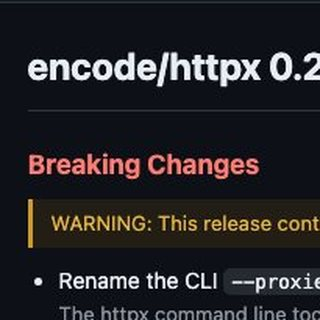
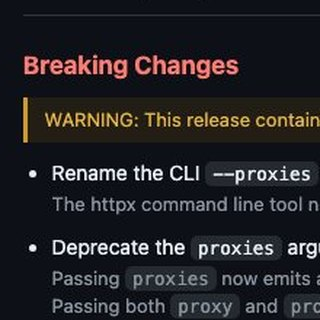
Fresh review: project sentence first, recording notes as footnotes, Waypoint bug story, sticky list, centred pastimes, clearer tiles and R6 poster

diff --git a/lib/content.ts b/lib/content.ts
@@ -117,8 +117,10 @@ export type Work = {
   what: string[];
   stack: string[];
   repo: string;
-  /** how the clip was made, shown under the video */
+  /** what the clip shows, one line under the video */
   recording: string;
+  /** how the recording was made, when that needs saying; a footnote after the bullets */
+  note?: string;
   hasVideo: boolean;
   /** width / height of the recording, when it isn't 16:10 */
   aspect?: number;
@@ -153,7 +155,8 @@ export const works: Work[] = [
     ],
     stack: ["C#", ".NET 10", "Roslyn", "ASP.NET Core", "React", "React Flow"],
     repo: "https://github.com/KR0N11/archlens",
-    recording: "Live run · dotnet/eShop analysed from a fresh clone (clip starts as the analysis finishes), then the call flow for POST api/orders/draft with the file and line behind each arrow",
+    recording: "Live run · dotnet/eShop from a fresh clone, then the call flow for POST api/orders/draft with the file and line behind each arrow",
+    note: "The clip starts as the analysis finishes.",
     hasVideo: true,
   },
   {
@@ -163,11 +166,12 @@ export const works: Work[] = [
     what: [
       "Draws Montréal's roads, water, parks and about 14k building footprints on a canvas from raw OpenStreetMap data, with its own Web Mercator projection. No maps, tile or routing API.",
       "Click two points: a quadtree snaps each click to the nearest road, and A* finds the path over about 58k intersections, with walk, bike and drive times.",
-      "A visualizer runs Dijkstra and A* side by side with live node counts. Across 300 test routes, A* explored about 80% fewer nodes at the median.",
+      "A visualizer runs Dijkstra and A* side by side. Across 300 test routes A* explored about 80% fewer nodes at the median, and that benchmark caught a real bug: rounding edges to 0.1 m let the heuristic overestimate, so 2 routes came back 0.1 m too long. Edges are now clamped and a smoke test guards it.",
     ],
     stack: ["TypeScript", "React", "Canvas 2D", "Vite", "OpenStreetMap"],
     repo: "https://github.com/KR0N11/waypoint",
-    recording: "Live run · a 1.06 km route with walk, bike and drive times; A* against Dijkstra (race speed raised on screen); a 10-minute walk isochrone",
+    recording: "Live run · a 1.06 km route with walk, bike and drive times; A* racing Dijkstra; a 10-minute walk isochrone",
+    note: "The race speed is raised on screen with the visualizer's own slider.",
     hasVideo: true,
   },
   {
@@ -181,7 +185,8 @@ export const works: Work[] = [
     ],
     stack: ["Python", "LangGraph", "FastAPI", "HTMX", "LlamaIndex", "Terraform"],
     repo: "https://github.com/KR0N11/sentinel",
-    recording: "Live run · triage of incident inc-001 in offline replay mode, then a scroll back through the real output. `--yes` approves the change; the LLM is a deterministic stub, so the call and cost line is the stub's count",
+    recording: "Live run · triage of incident inc-001 in offline replay mode, then a scroll back through the output",
+    note: "`--yes` approves the change at the prompt. The LLM is a deterministic stub here, so the call and cost line is the stub's own count.",
     hasVideo: true,
   },
   {
@@ -209,7 +214,8 @@ export const works: Work[] = [
     ],
     stack: ["Python", "LangGraph", "Pydantic", "DuckDB", "Streamlit", "FastAPI"],
     repo: "https://github.com/KR0N11/loom",
-    recording: "Semantic retrieval through Loom's HybridSearch (from a short demo script), then a hand-written SQL query run directly in DuckDB; the earlier ingest shows when it scrolls back · no LLM step",
+    recording: "Semantic retrieval with Loom's HybridSearch, then a DuckDB query · no LLM step",
+    note: "Retrieval runs from a short demo script, and the SQL is written by hand and run directly in DuckDB. The ingest shows when the terminal scrolls back.",
     hasVideo: true,
   },
   {

diff --git a/app/works/page.tsx b/app/works/page.tsx
@@ -123,11 +123,12 @@ export default function Works() {
             </a>
           </div>
           <div className={s.kind}>{w.kind}</div>
+          <p className={s.lede}>{w.what[0]}</p>
 
           <div
             className={s.frame}
             data-bright={!!w.bright}
-            style={{ aspectRatio: w.aspect ?? 16 / 10, width: `min(100%, calc(60vh * ${w.aspect ?? 16 / 10}))` }}
+            style={{ aspectRatio: w.aspect ?? 16 / 10, width: `min(100%, calc(52vh * ${w.aspect ?? 16 / 10}))` }}
           >
             {w.hasVideo ? (
               <video
@@ -148,8 +149,7 @@ export default function Works() {
             )}
           </div>
           <div className={s.caption}>
-            {/* `backticks` in a caption mark a command-line flag or name. */}
-            {w.recording.split("`").map((part, n) => (n % 2 ? <code key={n}>{part}</code> : part))}
+            {w.recording}
           </div>
 
           <div className={s.info}>
@@ -158,10 +158,17 @@ export default function Works() {
               {w.stack.join(" · ")}
             </p>
             <ul className={s.what}>
-              {w.what.map((line) => (
+              {w.what.slice(1).map((line) => (
                 <li key={line}>{line}</li>
               ))}
             </ul>
+            {w.note && (
+              <p className={s.note}>
+                <span>About the recording</span>
+                {/* `backticks` mark a command-line flag. */}
+                {w.note.split("`").map((part, n) => (n % 2 ? <code key={n}>{part}</code> : part))}
+              </p>
+            )}
           </div>
         </section>
 

diff --git a/app/works/works.module.css b/app/works/works.module.css
@@ -81,6 +81,9 @@
 .names {
   grid-area: names;
   align-self: start;
+  /* The list stays in view while a long project scrolls; the slots above it scroll away. */
+  position: sticky;
+  top: 24px;
   list-style: none;
   margin: 22px 0 0;
   padding: 0;
@@ -156,6 +159,30 @@
 .frame[data-bright="true"] .media {
   filter: brightness(0.8) contrast(0.95);
 }
+/* The project in one sentence, between its name and its recording. */
+.lede {
+  margin: 14px 0 0;
+  max-width: 62ch;
+  font-size: 19px;
+  line-height: 1.55;
+  color: var(--bone);
+}
+.note {
+  margin: 18px 0 0;
+  max-width: 68ch;
+  font-size: 15px;
+  line-height: 1.55;
+  color: var(--muted);
+}
+.note span {
+  margin-right: 10px;
+  font-family: var(--caps);
+  font-size: 13px;
+  letter-spacing: 0.1em;
+  text-transform: uppercase;
+  color: var(--grace);
+}
+.note code,
 .caption code {
   font-family: ui-monospace, "SF Mono", Menlo, monospace;
   font-size: 0.86em;
@@ -223,6 +250,7 @@
 }
 .what li {
   position: relative;
+  max-width: 68ch;
   padding: 7px 0 7px 18px;
   font-size: 18px;
   line-height: 1.6;
@@ -307,6 +335,7 @@
     margin-top: 30px;
   }
   .names {
+    position: static;
     margin-top: 36px;
   }
 }

diff --git a/app/profile/profile.module.css b/app/profile/profile.module.css
@@ -234,8 +234,8 @@
 /* ---------- Pastimes: photo first, a short label beside it ---------- */
 .item {
   display: grid;
-  grid-template-columns: minmax(0, 7fr) minmax(0, 5fr);
-  align-items: end;
+  grid-template-columns: minmax(0, 6fr) minmax(0, 5fr);
+  align-items: center;
   gap: clamp(28px, 5vw, 64px);
   padding: 44px 0;
   border-bottom: 1px solid rgba(200, 190, 160, 0.12);
@@ -244,7 +244,7 @@
   border-bottom: 0;
 }
 .itemText {
-  padding-bottom: 4px;
+  padding: 4px 0;
 }
 .line {
   margin: 10px 0 0;
@@ -272,9 +272,10 @@
 .photos video {
   filter: saturate(0.85) contrast(1.05) brightness(0.9);
 }
-/* Every row the same: the photo fills the wide column, the caption sits at its foot. */
+/* Every row the same: photo on the left, its caption beside it, centred on the photo. */
 .photos[data-count="1"] .frame {
   width: 100%;
+  max-width: 460px;
 }
 .photos .frame[data-video="true"] {
   aspect-ratio: 16 / 9;

diff --git a/app/road/road.module.css b/app/road/road.module.css
@@ -135,8 +135,9 @@
   background: linear-gradient(90deg, rgba(232, 200, 140, 0.22), rgba(232, 200, 140, 0.08) 55%, rgba(232, 200, 140, 0));
   border-top: 1px solid rgba(230, 220, 192, 0.35);
   border-bottom: 1px solid rgba(230, 220, 192, 0.35);
-  -webkit-mask-image: linear-gradient(90deg, #000 60%, transparent);
-  mask-image: linear-gradient(90deg, #000 60%, transparent);
+  /* Soft at both ends, as the game draws its selection bar. */
+  -webkit-mask-image: linear-gradient(90deg, transparent, #000 10%, #000 60%, transparent);
+  mask-image: linear-gradient(90deg, transparent, #000 10%, #000 60%, transparent);
   opacity: 0;
   transition: opacity 200ms;
 }
